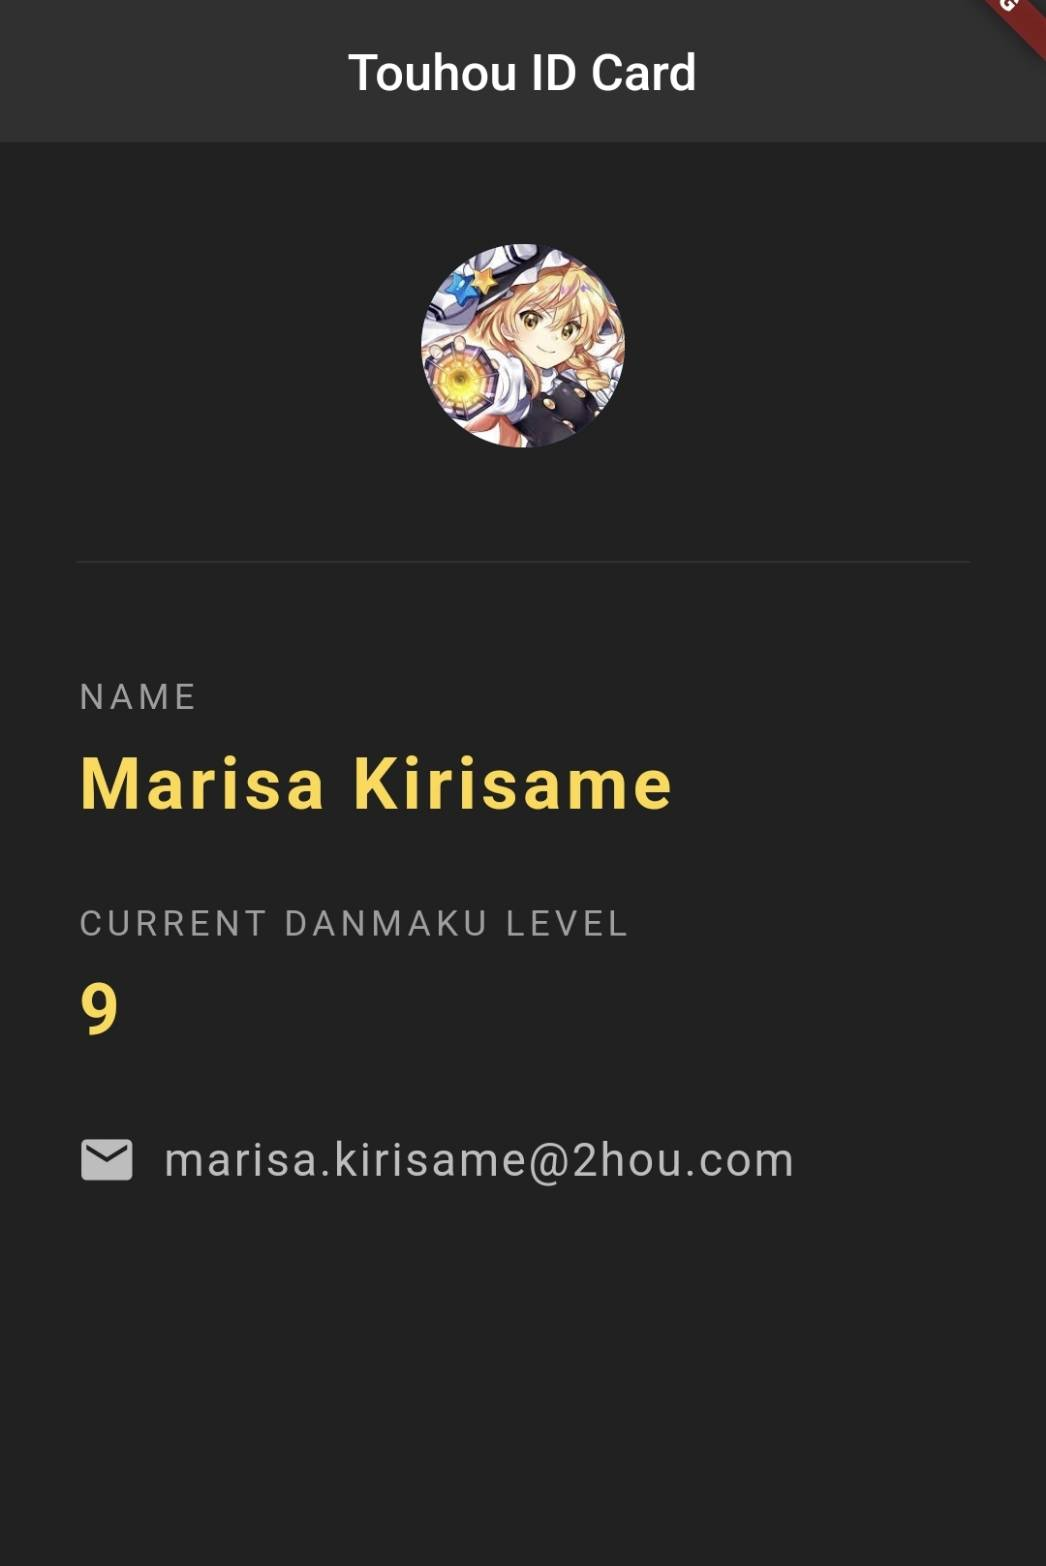
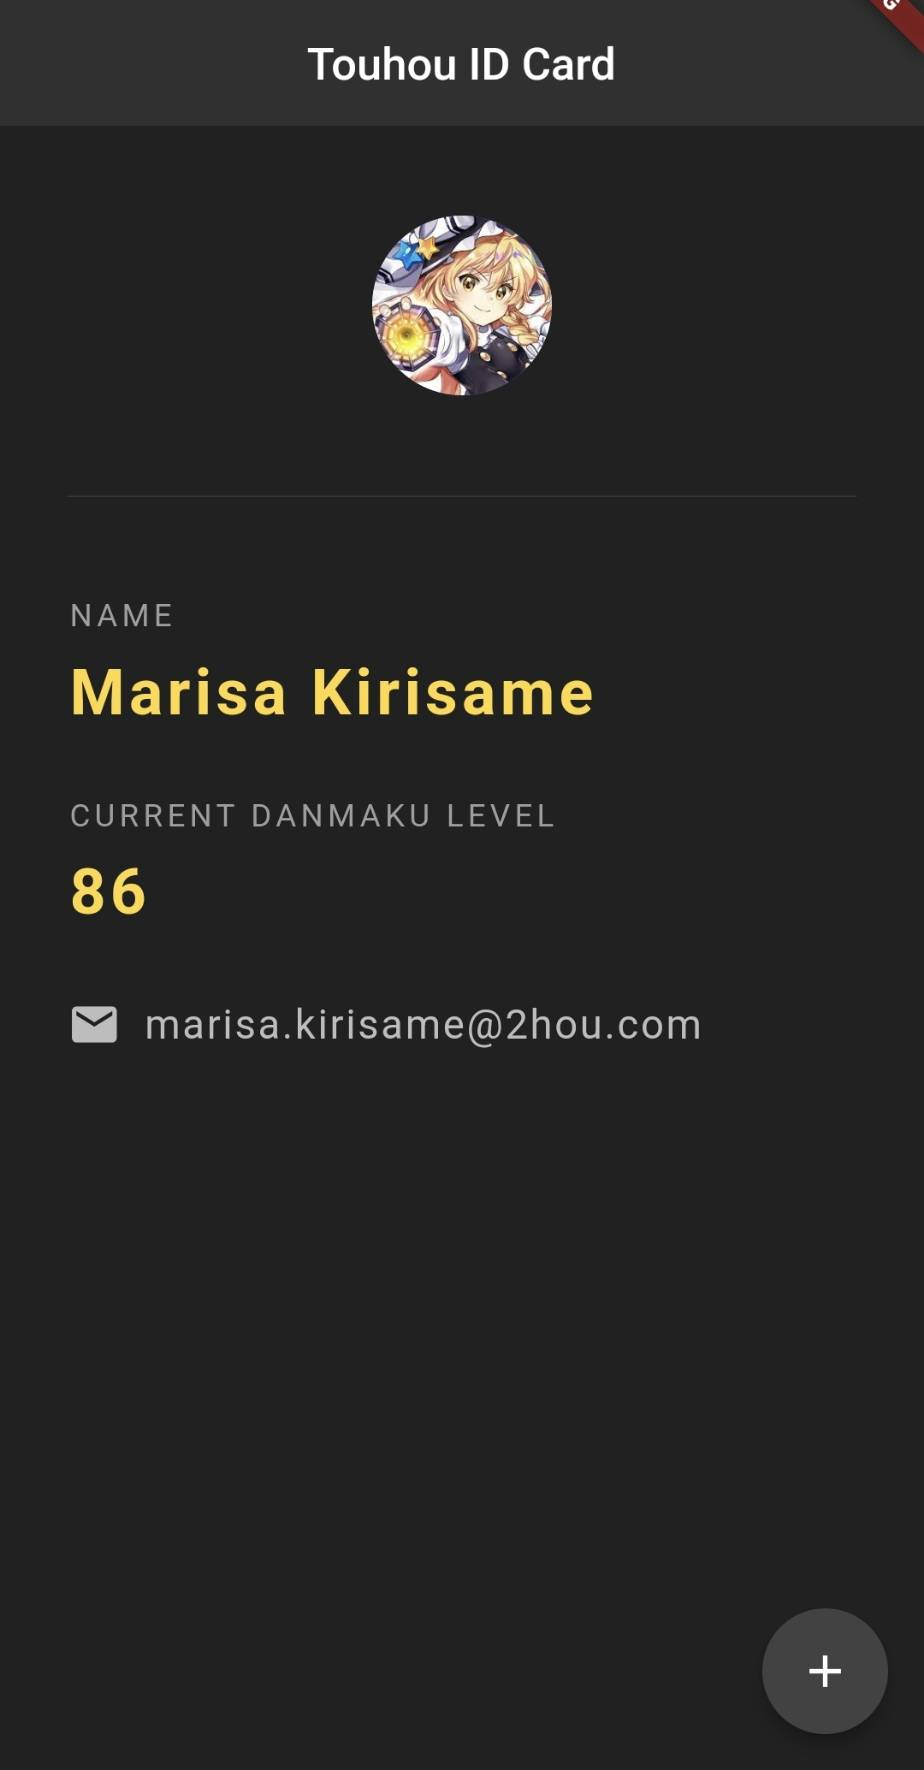
Add Floating Button

diff --git a/lib/main.dart b/lib/main.dart
@@ -3,13 +3,20 @@ import 'package:flutter/material.dart';
 void main() {
   runApp(
     const MaterialApp(
-      home: NinjaCard(),
+      home: TouhouCard(),
     ),
   );
 }
 
-class NinjaCard extends StatelessWidget {
-  const NinjaCard({super.key});
+class TouhouCard extends StatefulWidget {
+  const TouhouCard({super.key});
+
+  @override
+  State<TouhouCard> createState() => _TouhouCardState();
+}
+
+class _TouhouCardState extends State<TouhouCard> {
+  int danmakuLevel = 1;
 
   @override
   Widget build(BuildContext context) {
@@ -20,6 +27,15 @@ class NinjaCard extends StatelessWidget {
         centerTitle: true,
         backgroundColor: Colors.grey[850],
         elevation: 0,
+      ),
+      floatingActionButton: FloatingActionButton(
+        onPressed: () {
+          setState(() {
+            danmakuLevel += 1;
+          });
+        },
+        backgroundColor: Colors.grey[800],
+        child: Icon(Icons.add),
       ),
       body: Padding(
         padding: const EdgeInsets.fromLTRB(30, 40, 30, 0),
@@ -63,7 +79,7 @@ class NinjaCard extends StatelessWidget {
             ),
             const SizedBox(height: 10.0),
             Text(
-              '9',
+              '$danmakuLevel',
               style: TextStyle(
                 color: Colors.amberAccent[200],
                 letterSpacing: 2.0,
